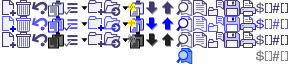
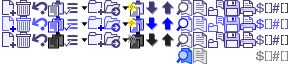
Insert a clipping from the shortcut key help window (issue #40)

Changed region(s): [[0.6562, 0.75, 0.7188, 1.0]]

diff --git a/src/chrome/content/shortcutHelp.js b/src/chrome/content/shortcutHelp.js
@@ -16,7 +16,7 @@
  *
  * The Initial Developer of the Original Code is 
  * Alex Eng <ateng@users.sourceforge.net>.
- * Portions created by the Initial Developer are Copyright (C) 2012-2014
+ * Portions created by the Initial Developer are Copyright (C) 2012-2015
  * the Initial Developer. All Rights Reserved.
  *
  * Contributor(s):
@@ -44,7 +44,7 @@ function $(aID)
 }
 
 
-function initDlg() 
+function init() 
 {
   gDlgArgs = window.arguments[0];
   var keyMap = gDlgArgs.keyMap;
@@ -76,6 +76,46 @@ function initDlg()
   gEditor.makeEditable("html", false);
 
   gIsShortcutKeyHelpContentGenerated = false;
+
+  if (gDlgArgs.showInsertClippingCmd) {
+    $("insert-clipping").hidden = false;
+  }
+}
+
+
+function selectClipping()
+{
+  var insertClippingBtn = $("insert-clipping");
+  if (insertClippingBtn.hidden) {
+    return;
+  }
+  if (insertClippingBtn.disabled) {
+    insertClippingBtn.disabled = false;
+  }
+}
+
+
+function insertClipping()
+{
+  if (! gDlgArgs.showInsertClippingCmd) {
+    return;
+  }
+
+  var shortcutListTreeView = $("shortcut-map-grid").view;
+  var selectedIndex = shortcutListTreeView.selection.currentIndex;
+  var selectedItem = shortcutListTreeView.getItemAtIndex(selectedIndex);
+  var selectedURI = selectedItem.firstChild.childNodes[1].getAttribute("value");
+
+  var clippingsSvc = Cc["clippings@mozdev.org/clippings;1"].getService(Ci.aeIClippingsService);
+  var name = clippingsSvc.getName(selectedURI);
+  var text = clippingsSvc.getText(selectedURI);
+
+  aeUtils.log(aeString.format("URI of selected clipping: %s, name: %s", selectedURI, name, text));
+
+  var hostAppWnd = aeUtils.getRecentHostAppWindow();
+  hostAppWnd.aecreations.clippings.insertClippingText(selectedURI, name, text);
+
+  window.close();
 }
 
 

diff --git a/src/chrome/skin/shortcutHelp.css b/src/chrome/skin/shortcutHelp.css
@@ -15,7 +15,7 @@
  *
  * The Initial Developer of the Original Code is 
  * Alex Eng <ateng@users.sourceforge.net>.
- * Portions created by the Initial Developer are Copyright (C) 2014
+ * Portions created by the Initial Developer are Copyright (C) 2014-2015
  * the Initial Developer. All Rights Reserved.
  *
  * Contributor(s):
@@ -36,6 +36,22 @@ toolbar {
 
 toolbarbutton:not(#close) {
   list-style-image: url("chrome://clippings/skin/images/clippingsMgrToolbar.png");
+}
+
+#insert-clipping {
+  -moz-image-region: rect(0px, 208px, 16px, 192px);
+}
+
+#insert-clipping:hover {
+  -moz-image-region: rect(16px, 208px, 32px, 192px);
+}
+
+#insert-clipping:active {
+  -moz-image-region: rect(32px, 208px, 48px, 192px);
+}
+
+#insert-clipping[disabled="true"] {
+  -moz-image-region: rect(48px, 208px, 64px, 192px);
 }
 
 #save {

diff --git a/src/chrome/content/tbMsgComposeOverlay.js b/src/chrome/content/tbMsgComposeOverlay.js
@@ -489,9 +489,10 @@ window.aecreations.clippings = {
         }
 
         let dlgArgs = {
-          printToExtBrowser: false,
+          printToExtBrowser: true,
           keyMap:   keyMap,
-	  keyCount: keyCount
+	  keyCount: keyCount,
+          showInsertClippingCmd: true
         };
 
         let dlg = window.openDialog("chrome://clippings/content/shortcutHelp.xul", "clipkey_help", "centerscreen,resizable", dlgArgs);

diff --git a/src/chrome/content/fxBrowser.js b/src/chrome/content/fxBrowser.js
@@ -496,7 +496,8 @@ window.aecreations.clippings = {
         let dlgArgs = {
           printToExtBrowser: false,
           keyMap:   keyMap,
-	  keyCount: keyCount
+	  keyCount: keyCount,
+          showInsertClippingCmd: true
         };
 
         let dlg = window.openDialog("chrome://clippings/content/shortcutHelp.xul", "clipkey_help", "centerscreen,resizable", dlgArgs);

diff --git a/src/chrome/content/clippingsMgr.js b/src/chrome/content/clippingsMgr.js
@@ -3399,7 +3399,8 @@ function showShortcutKeyMinihelp()
 
   var dlgArgs = {
     keyMap:   keyMap,
-    keyCount: keyCount
+    keyCount: keyCount,
+    showInsertClippingCmd: false
   };
   dlgArgs.printToExtBrowser = Application.id == aeConstants.HOSTAPP_TB_GUID;
 
